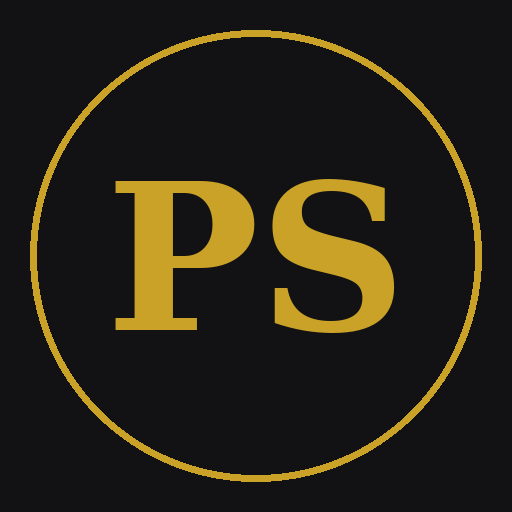
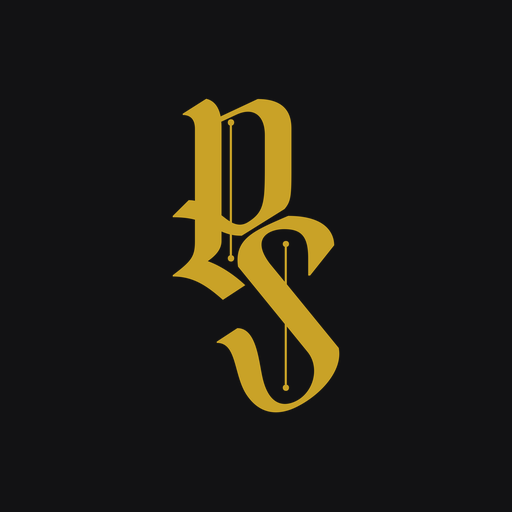
Add files via upload

diff --git a/sw.js b/sw.js
@@ -1,8 +1,21 @@
-// Service worker minimale: permette l'installazione come PWA
-// e mette in cache i file statici dell'app (non i dati, che restano
-// sempre aggiornati dal server ad ogni richiesta).
-
-const CACHE_NAME = "premiere-v1";
+// Service worker per la PWA PREMIERE.
+//
+// Strategia "network-first": ogni volta che l'app si apre (anche dalla
+// schermata Home), prova PRIMA a scaricare la versione più recente dei
+// file dal server. Solo se non c'è connessione (es. modalità offline),
+// usa la copia salvata in cache come riserva.
+//
+// Questo evita il problema per cui l'app installata mostrava sempre una
+// versione vecchia, anche dopo aver pubblicato aggiornamenti: con la
+// vecchia strategia "cache-first", la cache veniva controllata prima
+// della rete e quindi "vinceva" sempre lei.
+//
+// IMPORTANTE: ad ogni nuovo aggiornamento pubblicato, cambia il numero
+// di versione qui sotto (es. da v2 a v3). Questo costringe i telefoni che
+// hanno già installato l'app a scaricare la cache fresca, invece di
+// restare bloccati su una versione vecchia anche in caso di problemi di
+// rete temporanei.
+const CACHE_NAME = "premiere-v3";
 const FILES_DA_CACHARE = [
   "./index.html",
   "./manifest.json"
@@ -21,20 +34,30 @@ self.addEventListener("activate", (event) => {
       Promise.all(nomi.filter((n) => n !== CACHE_NAME).map((n) => caches.delete(n)))
     )
   );
+  // Prende immediatamente il controllo delle pagine già aperte, senza
+  // aspettare che vengano chiuse e riaperte.
+  self.clients.claim();
 });
 
 self.addEventListener("fetch", (event) => {
   const url = new URL(event.request.url);
 
-  // Le chiamate API (al backend) non vanno mai in cache: devono sempre
-  // essere fresche. Solo i file statici dell'app usano la cache.
+  // Le chiamate API (al backend) non passano mai dalla cache: devono
+  // sempre essere fresche in tempo reale.
   if (url.origin !== self.location.origin) {
-    return; // lascia passare la richiesta direttamente alla rete
+    return;
   }
 
+  // Network-first: prova prima la rete. Se risponde, aggiorna anche la
+  // cache con la versione fresca (così l'eventuale fallback offline futuro
+  // è il più aggiornato possibile). Se la rete non risponde, usa la cache.
   event.respondWith(
-    caches.match(event.request).then((rispostaCache) => {
-      return rispostaCache || fetch(event.request);
-    })
+    fetch(event.request)
+      .then((rispostaRete) => {
+        const copiaPerCache = rispostaRete.clone();
+        caches.open(CACHE_NAME).then((cache) => cache.put(event.request, copiaPerCache));
+        return rispostaRete;
+      })
+      .catch(() => caches.match(event.request))
   );
 });

diff --git a/index.html b/index.html
@@ -506,6 +506,22 @@ const ETICHETTE_TAB = { store: "Store", eventi: "Eventi", laboratorio: "Laborato
 let NEGOZI = {};
 let carrelli = {}; // { negozio_id: { prodotto_id: quantita } }
 
+// ---------------------------------------------------------------
+// IDENTIFICATIVO DISPOSITIVO
+// Un codice casuale, generato una sola volta e salvato sul telefono,
+// usato solo per riconoscere "questo stesso dispositivo ha già votato
+// questo prodotto" e permettere di cambiare il voto. Non contiene alcuna
+// informazione personale: è solo una stringa casuale senza significato.
+// ---------------------------------------------------------------
+function getIdDispositivo() {
+  let id = localStorage_safeGet("premiere_id_dispositivo");
+  if (!id) {
+    id = "dev_" + Math.random().toString(36).slice(2) + Date.now().toString(36);
+    localStorage_safeSet("premiere_id_dispositivo", id);
+  }
+  return id;
+}
+
 async function apiGet(path) {
   const r = await fetch(API_BASE + path);
   if (!r.ok) throw await r.json().catch(() => ({errore: "Errore di rete"}));
@@ -709,7 +725,8 @@ async function caricaStore(negozioId) {
 
   let prodotti;
   try {
-    prodotti = await apiGet(`/${negozioId}/prodotti`);
+    const idDispositivo = getIdDispositivo();
+    prodotti = await apiGet(`/${negozioId}/prodotti?id_dispositivo=${encodeURIComponent(idDispositivo)}`);
   } catch (e) {
     el.innerHTML = '<div class="empty-state">Errore nel caricare i prodotti.</div>';
     return;
@@ -731,12 +748,15 @@ async function caricaStore(negozioId) {
       ? `${p.voto_medio.toFixed(1)} (${p.numero_voti})`
       : "Nessuna valutazione";
 
+    const votoUtente = p.voto_utente || 0;
+
     let ratingHtml = '<div class="rating-row">';
     for (let i = 1; i <= 5; i++) {
-      ratingHtml += `<button class="rating-ps" data-voto="${i}">PS</button>`;
+      const filled = i <= votoUtente ? "filled" : "";
+      ratingHtml += `<button class="rating-ps ${filled}" data-voto="${i}">PS</button>`;
     }
     ratingHtml += `<span class="rating-summary">${mediaTesto}</span>`;
-    ratingHtml += `<span class="rating-thanks">Grazie!</span>`;
+    ratingHtml += `<span class="rating-thanks">${votoUtente ? "Il tuo voto" : ""}</span>`;
     ratingHtml += `</div>`;
 
     card.innerHTML = `
@@ -763,15 +783,18 @@ async function caricaStore(negozioId) {
 }
 
 async function votaProdotto(prodottoId, voto, cardEl) {
-  // Evidenzia subito i quadrati PS fino al voto scelto (feedback immediato)
+  // Evidenzia subito i quadrati PS fino al voto scelto (feedback immediato).
+  // I pulsanti restano sempre cliccabili: il voto si può cambiare in
+  // qualsiasi momento, semplicemente toccando un altro numero.
   cardEl.querySelectorAll(".rating-ps").forEach(btn => {
     btn.classList.toggle("filled", parseInt(btn.dataset.voto) <= voto);
-    btn.disabled = true;
   });
-  cardEl.querySelector(".rating-thanks").classList.add("visible");
+  const thanksEl = cardEl.querySelector(".rating-thanks");
+  thanksEl.textContent = "Il tuo voto";
+  thanksEl.classList.add("visible");
 
   try {
-    await apiPost(`/prodotti/${prodottoId}/vota`, { voto });
+    await apiPost(`/prodotti/${prodottoId}/vota`, { voto, id_dispositivo: getIdDispositivo() });
   } catch (e) {
     mostraToast("Non è stato possibile registrare il voto");
   }